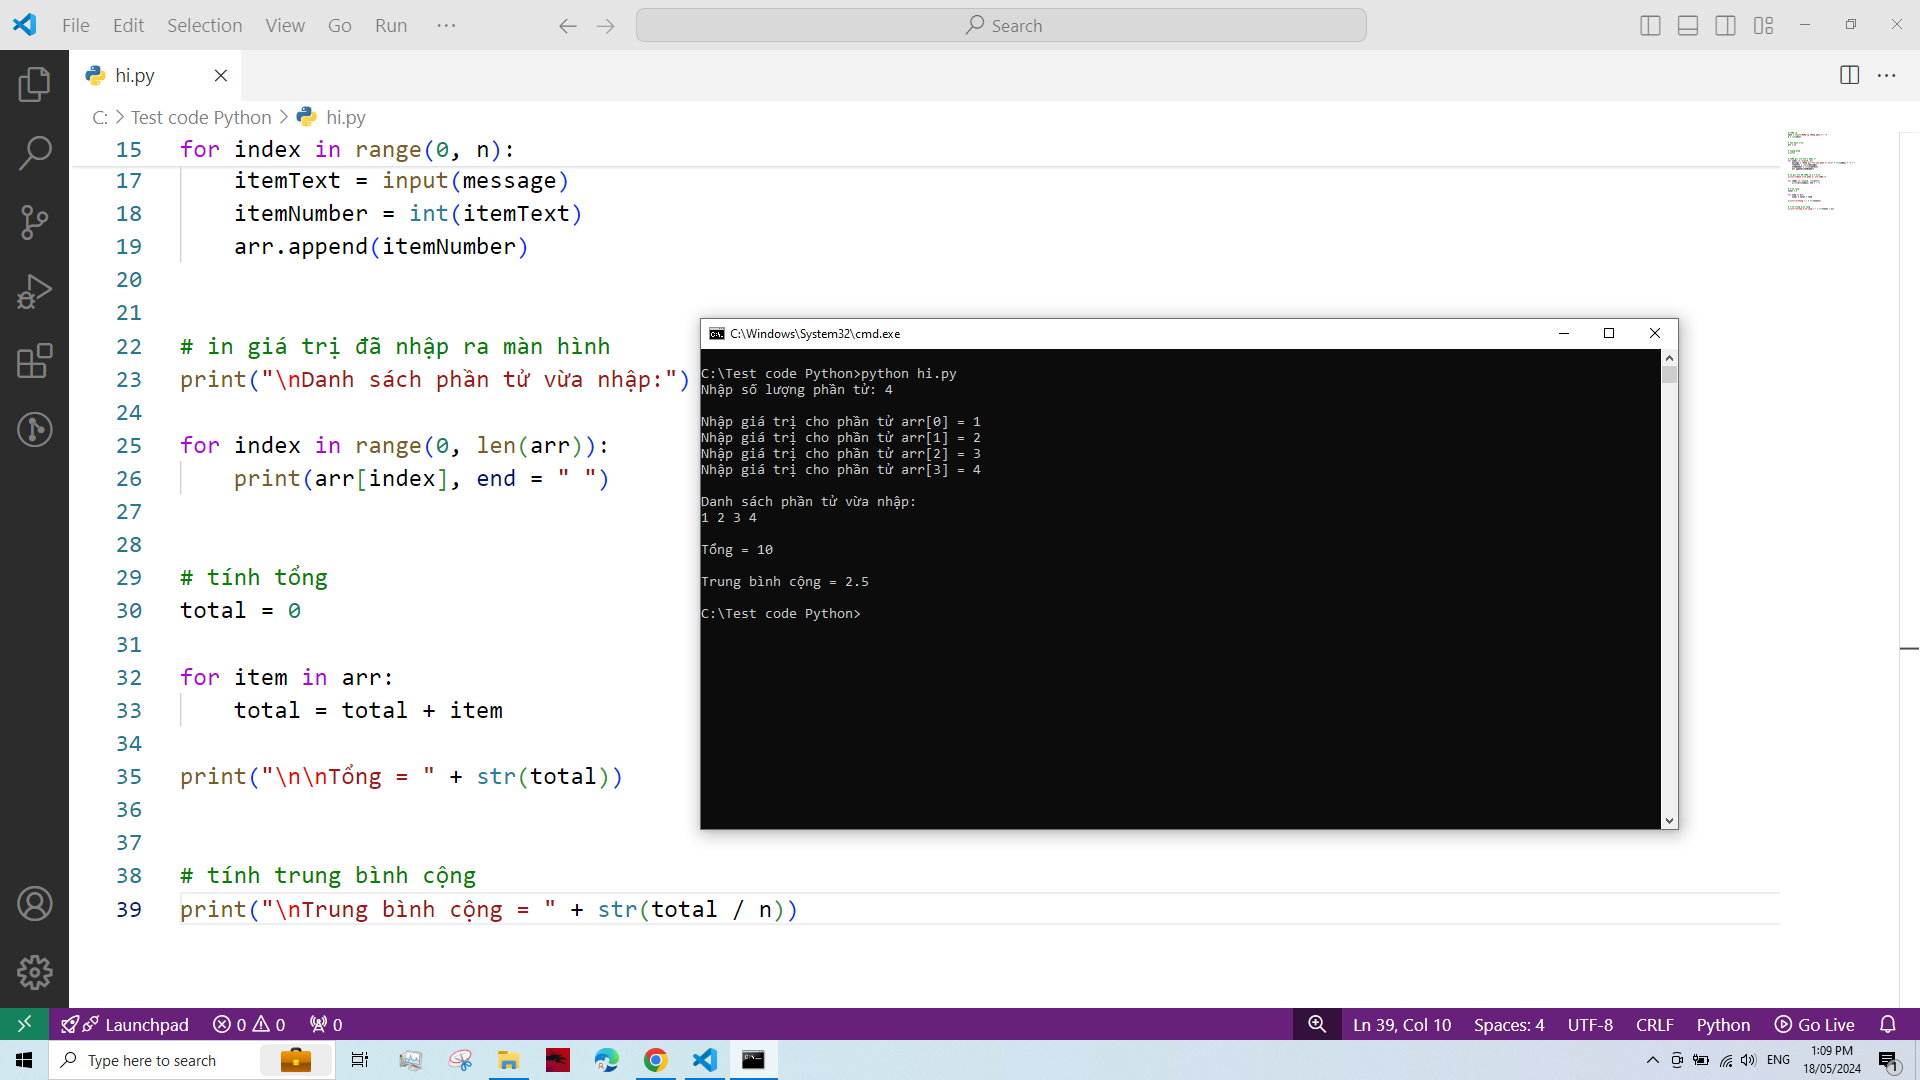
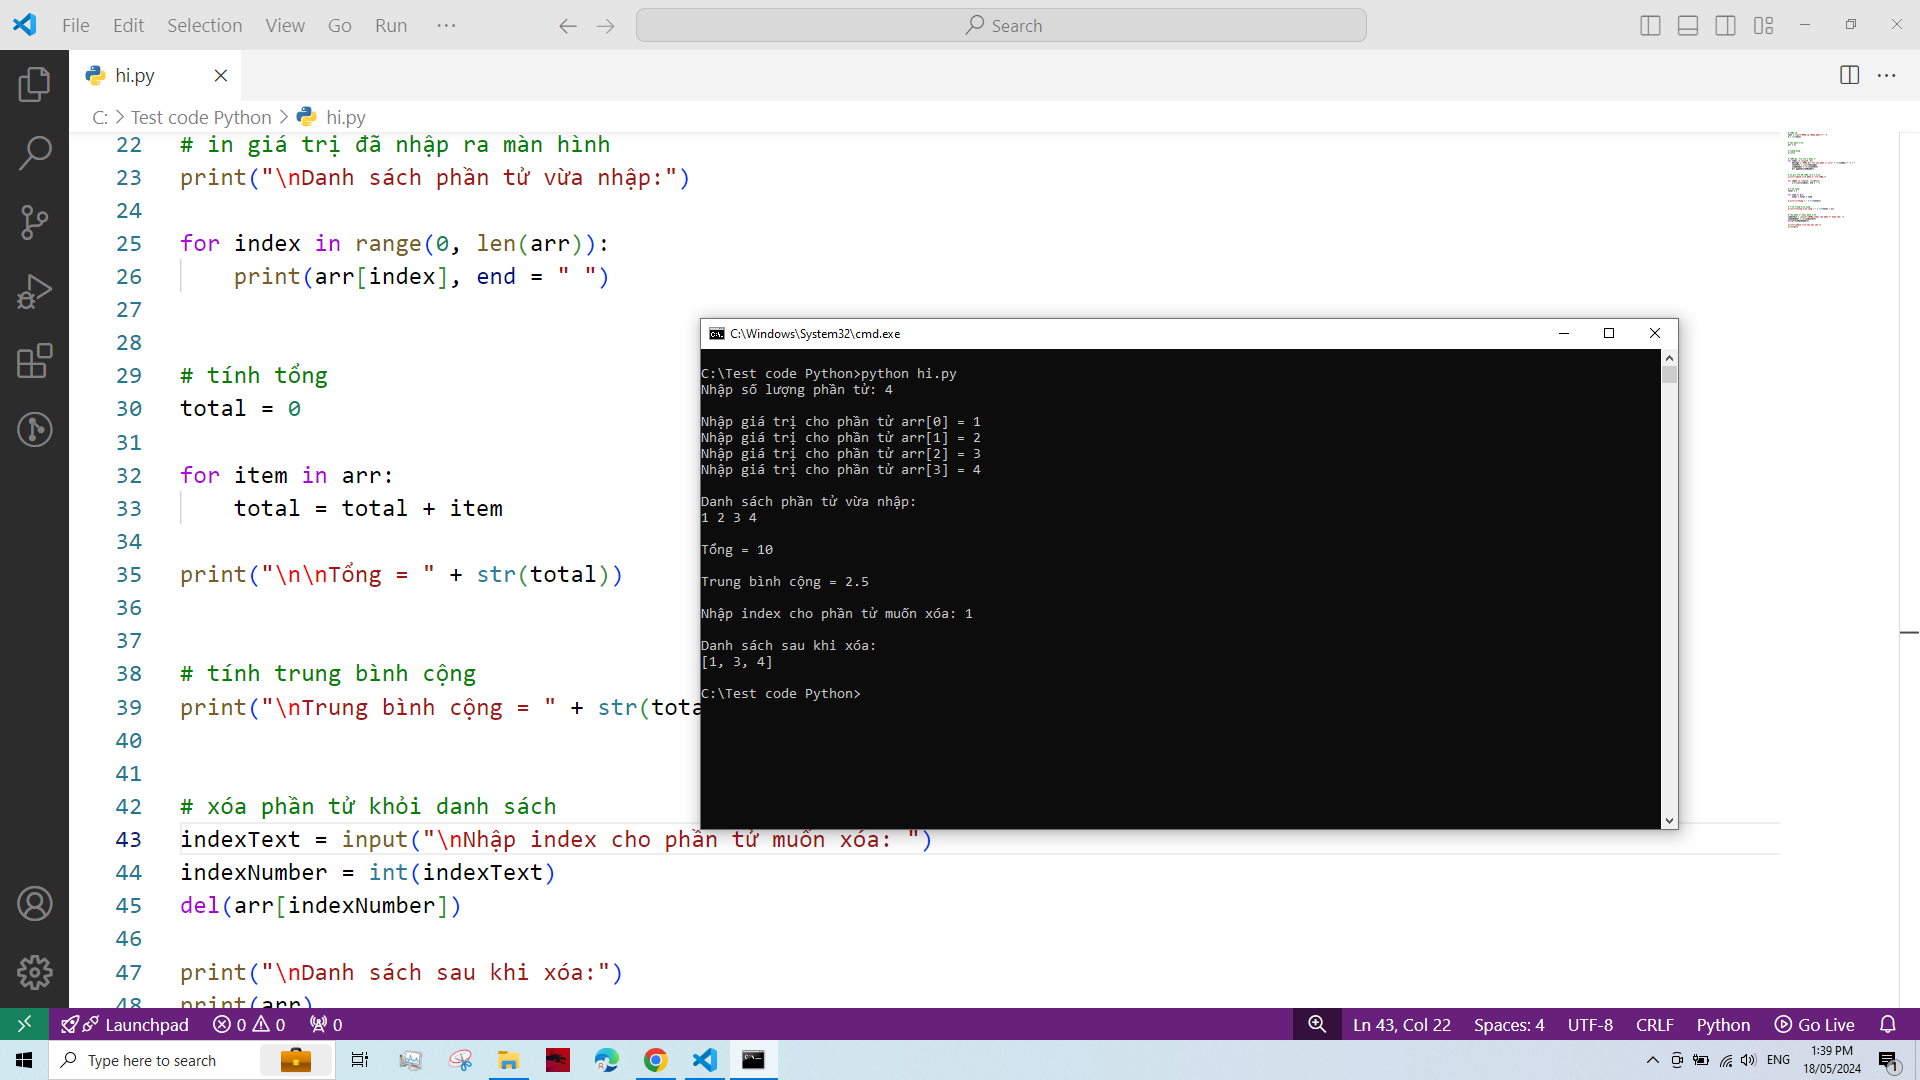
cap nhat

diff --git a/nhập n phần tử vào danh sách/program.py b/nhập n phần tử vào danh sách/program.py
@@ -37,3 +37,12 @@ print("\n\nTổng = " + str(total))
 
 # tính trung bình cộng
 print("\nTrung bình cộng = " + str(total / n))
+
+
+# xóa phần tử khỏi danh sách
+indexText = input("\nNhập index cho phần tử muốn xóa: ")
+indexNumber = int(indexText)
+del(arr[indexNumber])
+
+print("\nDanh sách sau khi xóa:")
+print(arr)
